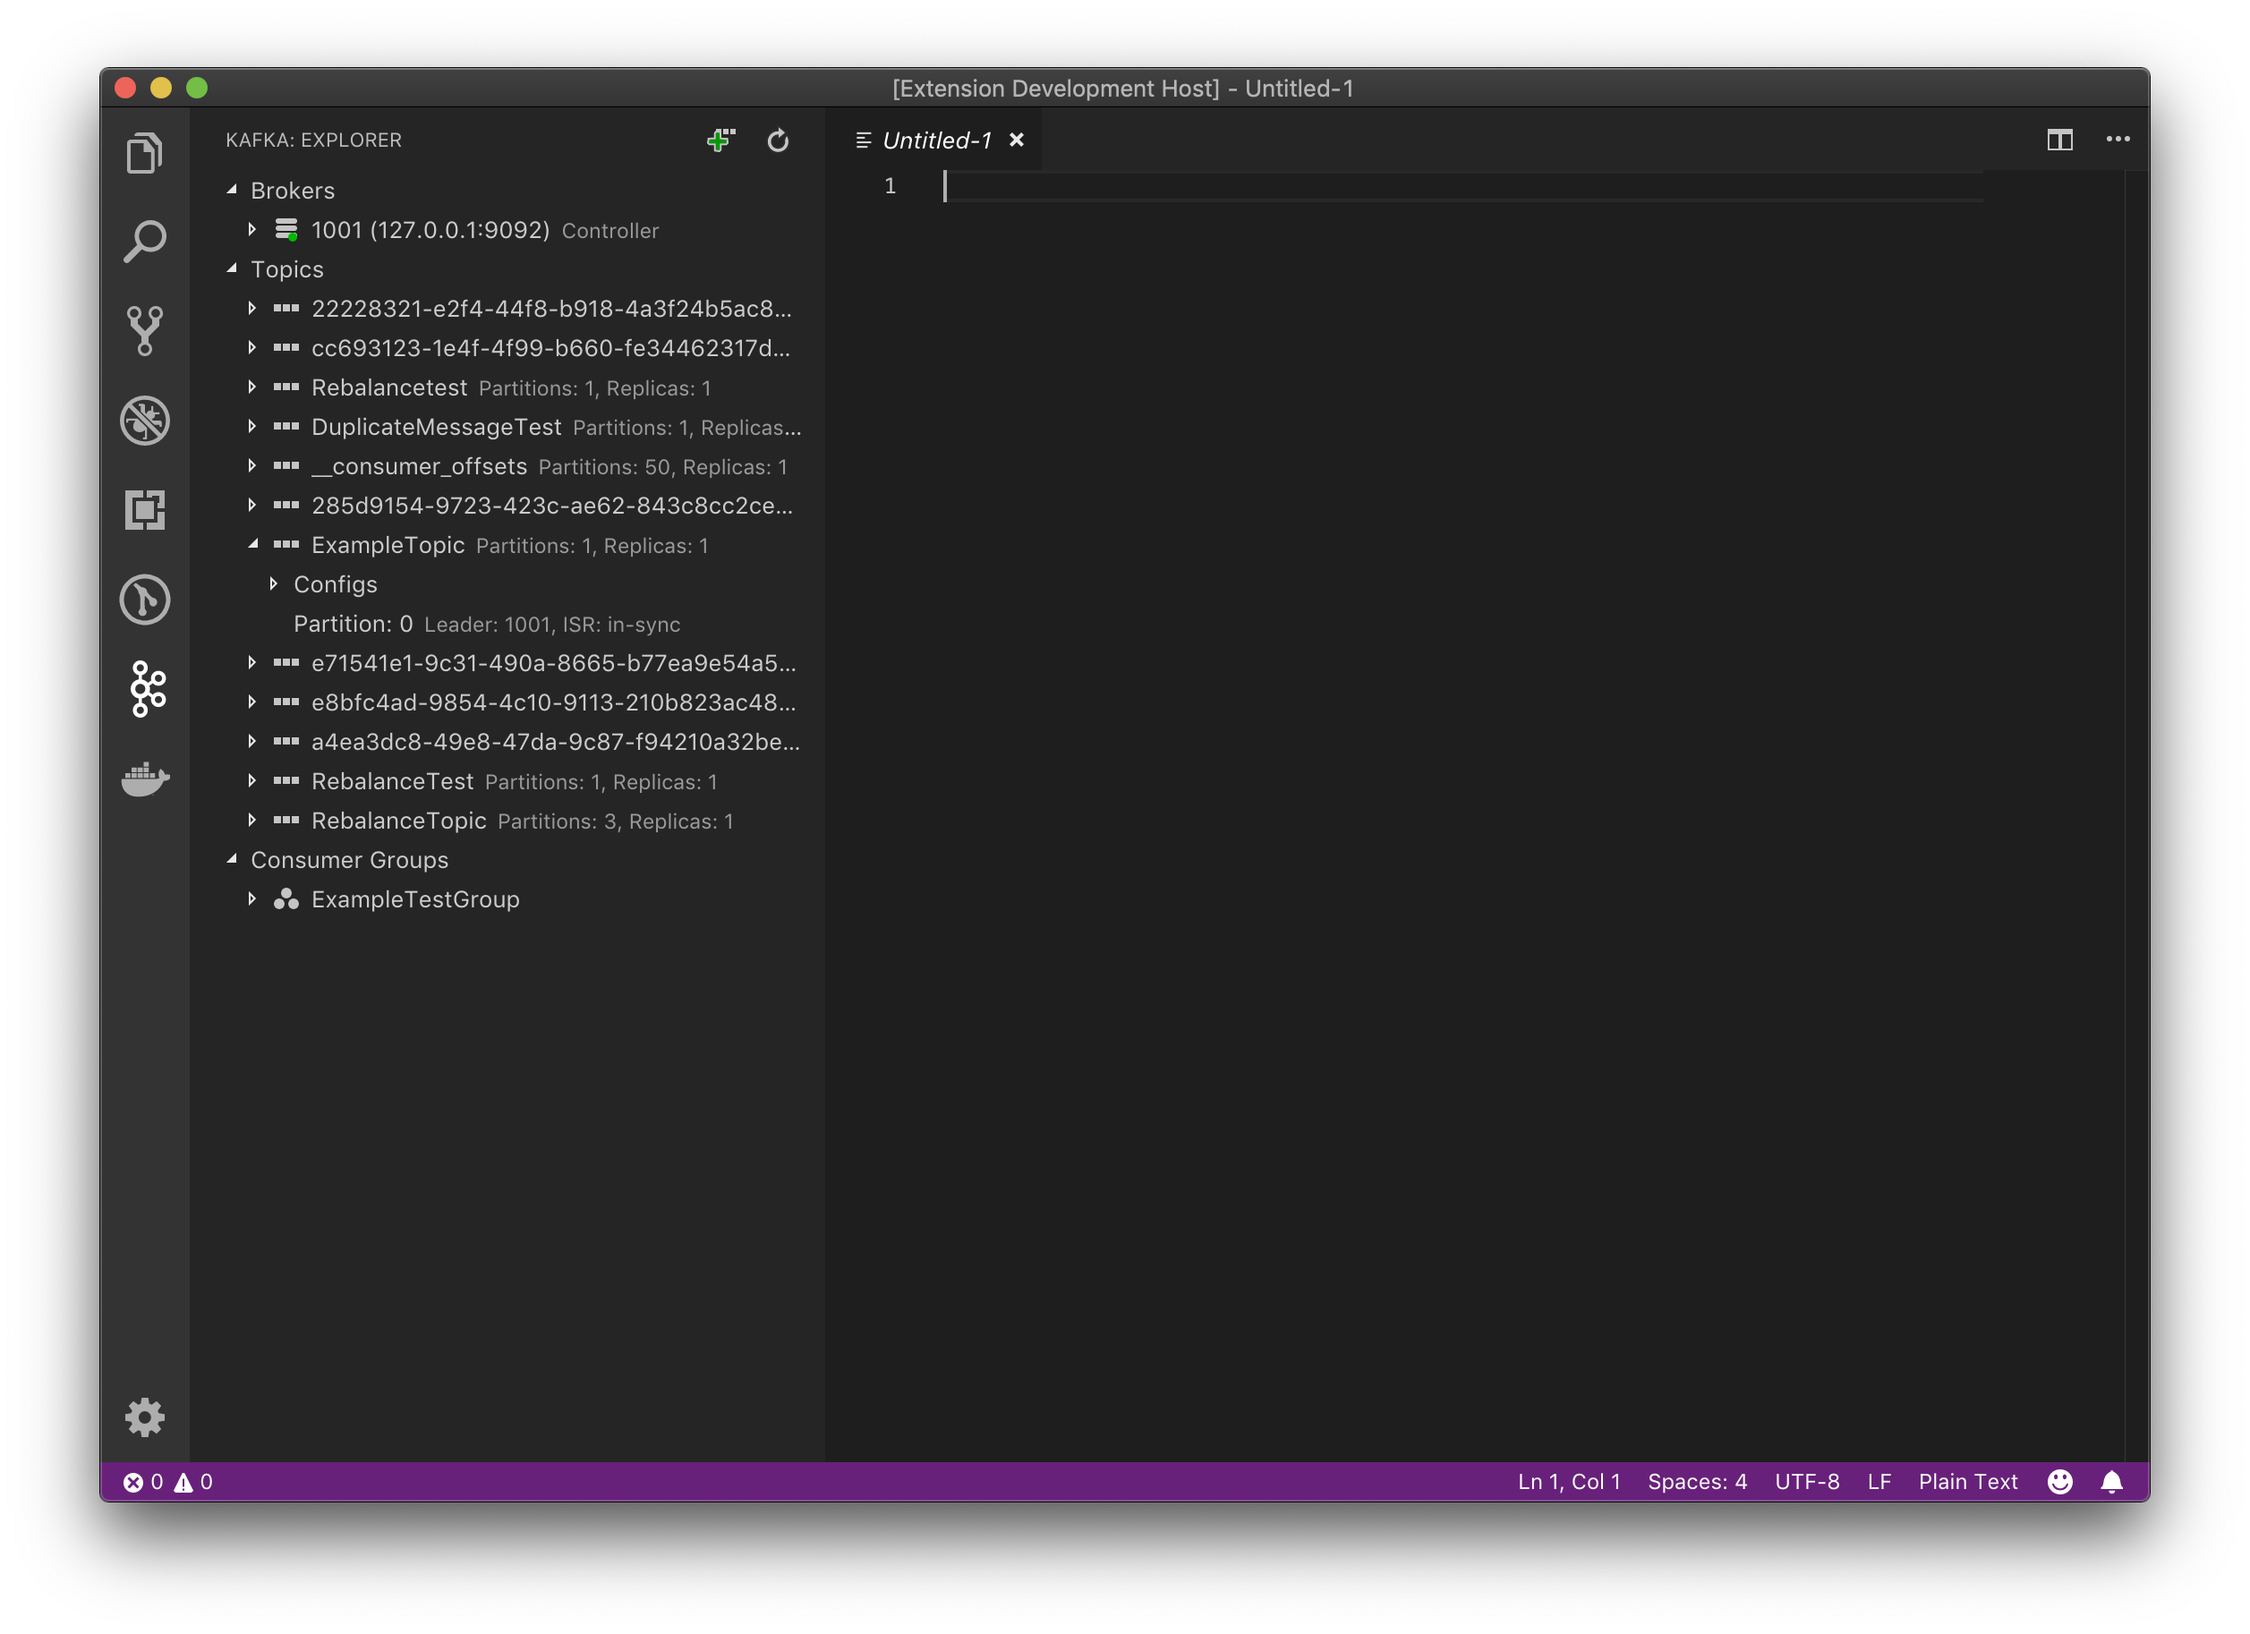
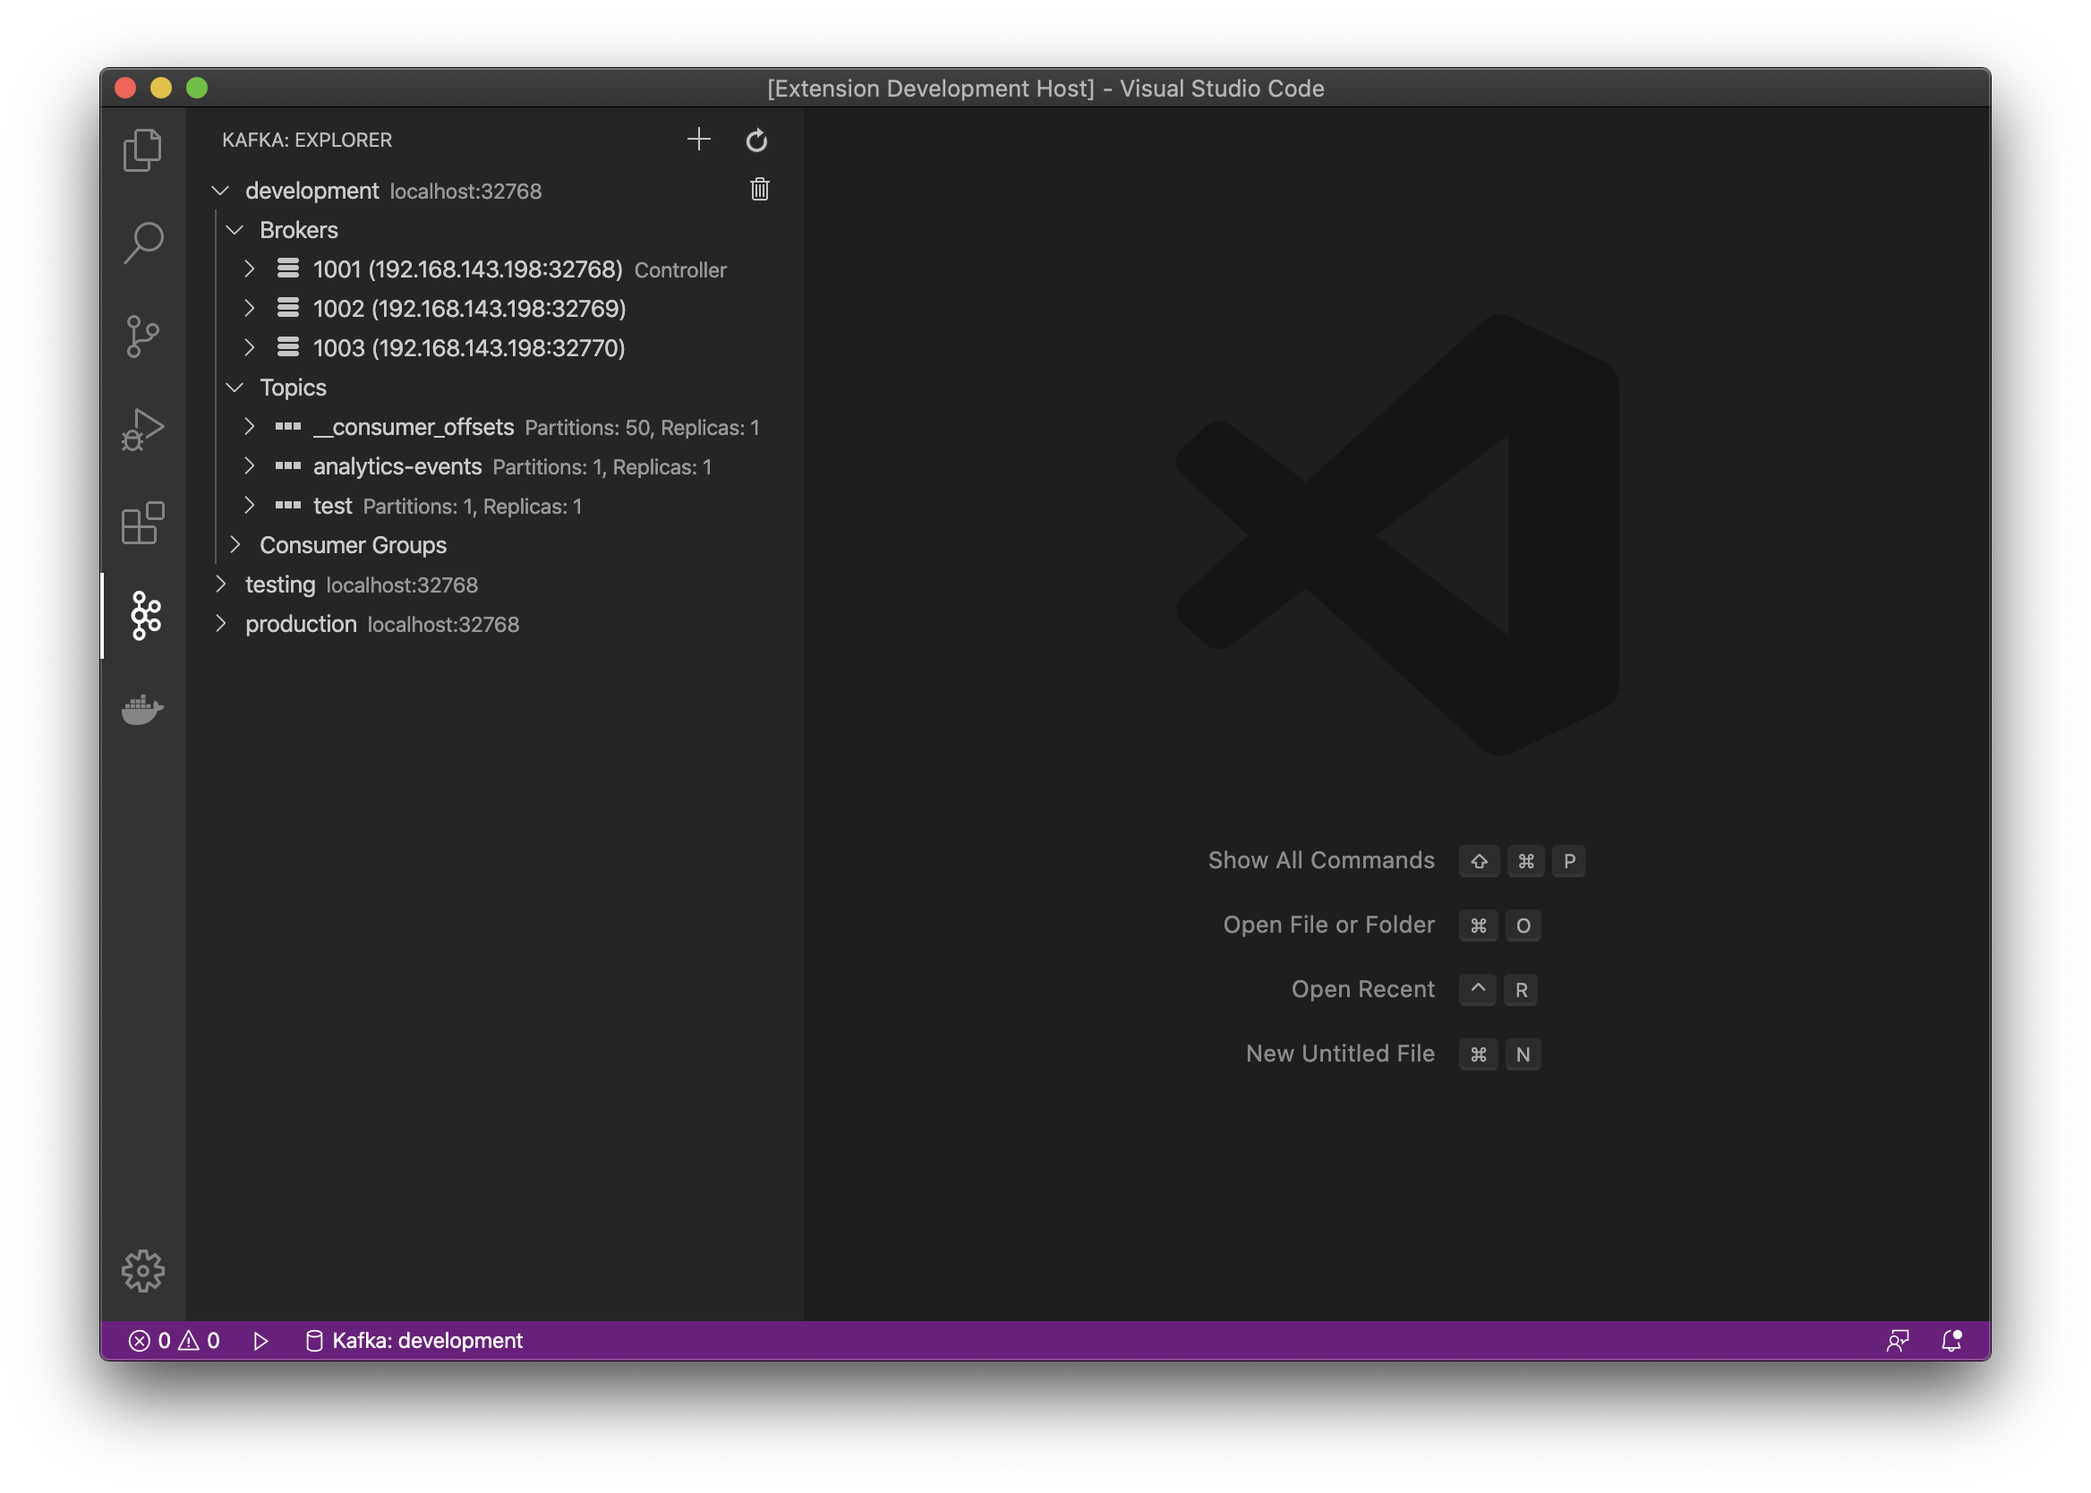
Prepare release 0.9.0

Changed region(s): [[0.0312, 0.0312, 0.9688, 0.9353], [0.5938, 0.5612, 0.6875, 0.6235], [0.5938, 0.6547, 0.6875, 0.717]]

diff --git a/README.md b/README.md
@@ -5,6 +5,7 @@
 Work with Kafka directly in Visual Studio Code. Kafka clusters running version 0.11 or higher are supported.
 
 Features:
+- Connect to multiple clusters
 - View brokers in cluster
 - View topics
 - View configs
@@ -16,7 +17,6 @@ Features:
 Planned features in no particular order:
 - More administration features (delete topics)
 - Update configs
-- Connect to multiple clusters
 
 ## Screenshots
 ![Screenshot-1](assets/screen-1.png)
@@ -24,21 +24,6 @@ Planned features in no particular order:
 ![Screenshot-2](assets/screen-2.png)
 
 ![Screenshot-3](assets/screen-3.png)
-
-## Configuration
-The extension connects to a Kafka cluster by providing one or more brokers in the `kafka.hosts` settings (user or workspace).
-Example:
-
-```json
-{
-    "kafka.hosts": "127.0.0.1:9092,127.0.0.1:9093",
-
-    // Support for SASL/PLAIN
-    "kafka.sasl.mechanism": "plain",
-    "kafka.sasl.username": "username",
-    "kafka.sasl.password": "password"
-}
-```
 
 ## Producing
 Producing can be done by creating a `.kafka` file. Write simple producers using the following format:

diff --git a/CHANGELOG.md b/CHANGELOG.md
@@ -1,6 +1,14 @@
 # Change Log
 All notable changes to Kafka extension will be documented in this file.
 
+## [0.9.0] - 2020-05-30
+### Added
+ - Support for registering multiple clusters is here! As a result, some of the the VS Code settings are now gone (kafka host, username and password) and any cluster should be added from the explorer.
+ For some actions (such as producing records) a specific cluster must be selected either via the explorer or the command palette.
+
+### Changed
+ - No longer shows connection status on specific brokers (the extension will move to Kafka.js in the future, which doesen't expose this status + it didn't serve any useful need).
+
 ## [0.8.3] - 2020-05-01
 ### Changed
  - Use webpack bundling for extension distribution.
